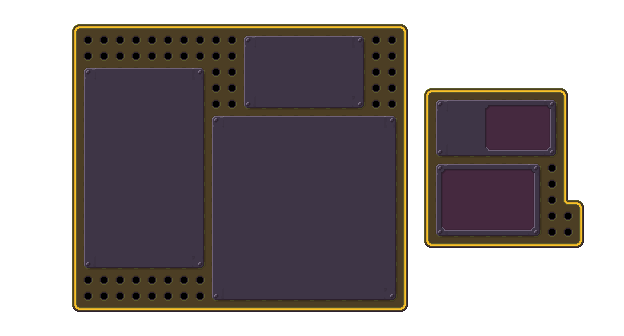
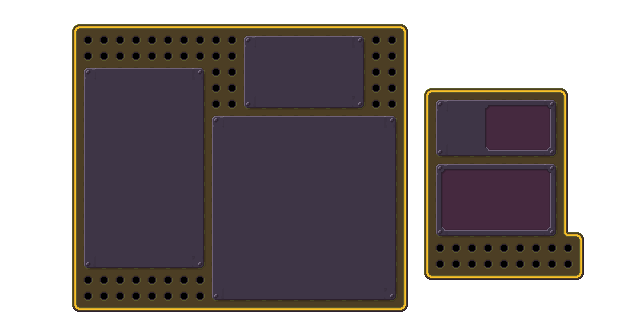
wip: item popup

Changed region(s): [[0.6699, 0.4762, 0.9439, 0.8333]]

diff --git a/js/assets.js b/js/assets.js
@@ -1190,7 +1190,7 @@ let miniaAssets = [
     Sprite.xspec({tag: 'hud.stats.highlight', img: new SheetRef({src: 'img/hud.png', width: 32, height: 32, x: 16*34, y: 16*4})}),
 
     Sprite.xspec({tag: 'equip.bg', img: new SheetRef({src: 'img/equip.png', width: 16*22, height: 16*19, x: 16*4, y: 16*1})}),
-    Sprite.xspec({tag: 'equip.pop.bg', img: new SheetRef({src: 'img/equip.png', width: 16*11, height: 16*11, x: 16*26, y: 16*5})}),
+    Sprite.xspec({tag: 'equip.pop.bg', img: new SheetRef({src: 'img/equip.png', width: 16*11, height: 16*13, x: 16*26, y: 16*5})}),
 
     Animation.xspec({tag: 'funguy.mover', x_cels: [
         Cel.xspec({x_sketch: Sprite.xspec({img: new SheetRef({src: 'img/funguy.png', width: 16, height: 32, x: 16*1, y: 0})}), ttl: 25 }),

diff --git a/js/inventory.js b/js/inventory.js
@@ -554,7 +554,7 @@ class Inventory extends UxView {
         } else {
             if (item) {
                 this.itemPopup = new ItemPopup({
-                    xform: new XForm({ left: .7, top: .2, bottom: .2}),
+                    xform: new XForm({ left: 22/33, top: .2, top: 3/19, bottom: 3/19}),
                     item: item,
                     handleUse: this.handleUse.bind(this),
                     handleDrop: this.handleDrop.bind(this),
@@ -998,7 +998,7 @@ class ItemPopup extends UxView {
         this.target;
 
         this.panel = new UxPanel({
-            sketch: Assets.get('oframe.red', true),
+            sketch: Assets.get('equip.pop.bg', true),
             children: [
                 // title
                 new UxText({
